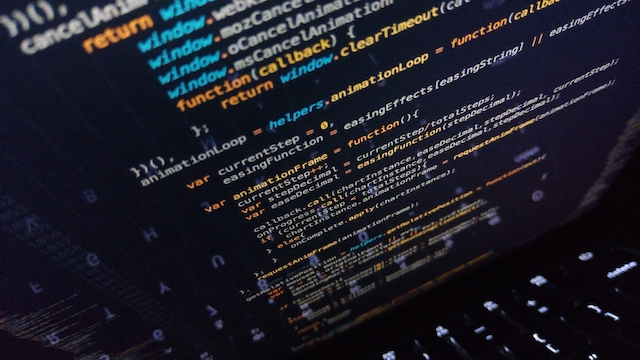
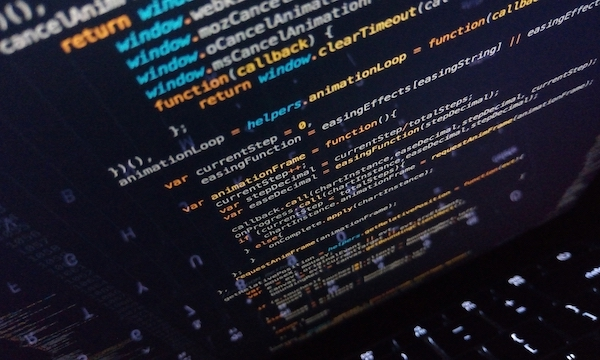
updated photo ratios

diff --git a/blog/neuroplasitcity.html b/blog/neuroplasitcity.html
@@ -26,7 +26,7 @@
         <div id="post-area">
           <div class="post">
             <h1>NEUROPLASTICITY AND THE GROWTH MINDSET</h1>
-            <img src="/images/neuroplasticity.jpg" alt="image of synapse" class="post-photo">
+            <img src="/images/neuroplasticity.jpeg" alt="image of synapse" class="post-photo">
             <p class="post-date-post">9 July 2021</p>
             <h2>Neuroplasicity</h2>
             <h3>Discuss how understanding the principles of neuroplasticity benefits people:</h3>
@@ -46,7 +46,7 @@
               <li><a href="https://www.verywellmind.com/what-is-brain-plasticity-2794886" target="__blank" class="link-hover">What is brain plasticity - VeryWellMind.com</a></li>
             </ul>
             <h2>The Growth Mindset</h2>
-            <img src="/images/growth-mindset.jpg" alt="two drawn heads showing a fixed and growth mindset" class="post-photo">
+            <img src="/images/growth-mindset.jpeg" alt="two drawn heads showing a fixed and growth mindset" class="post-photo">
             <h3>Discuss what it is and why it is relevant:</h3>
             <p>
               A growth mindset is knowing that your mind is not limited/static in terms of it’s capacity but rather through persistence in failure you can grow that capacity. It is extremely relevant, in the development world especially, because it is just simply impossible know and understand everything there is about everything. With a growth mindset, one might feel static in terms of their current knowledge but having that mindset would comfort them in the process of learning more and potentially failing along the way - knowing that time spent learning and time failing is sometimes a byproduct of learning.

diff --git a/index.html b/index.html
@@ -61,7 +61,7 @@
 
         <div class="post-card">
           <a href="/blog/neuroplasitcity.html">
-            <img src="/images/neuroplasticity.jpg" alt="image of synapse" class="post-photo">
+            <img src="/images/neuroplasticity.jpeg" alt="image of synapse" class="post-photo">
             <h2 class="post-title">NEUROPLASICITY AND THE GROWTH MINDSET</h2>
           </a>
           <p class="post-teaser">The brain is the most complex organ in our body and simply knowing about it and the Growth Mindset can make you a more effective learner and most importantly more successful. Come scatch the surface and then dive in deeper!</p>
@@ -88,7 +88,7 @@
 
         <div class="post-card">
           <a href="/blog/identity-values.html">
-            <img src="/images/do-something-great.jpg" alt="neon sign that says do something great" class="post-photo">
+            <img src="/images/do-something-great.jpeg" alt="neon sign that says do something great" class="post-photo">
             <h2 class="post-title">MY IDENTITY, VALUES & STRENGTHS</h2>
           </a>
           <p class="post-teaser">Another deep post, this time about my identity, values and strengths. It's interesting to gain insignt into how you work and I definitely encourage doing a bit of self-reflection if you haven't already!</p>

diff --git a/blog/emotional-intelligence.html b/blog/emotional-intelligence.html
@@ -36,7 +36,6 @@
             <p>I see EQ as the base of a pyramid - it is extremely important for you to have a strong base in order for your pyramid to become any significant height. In more common words: having strong EQ skills allows you to better exercise your IQ. You could have strong IQ skills and weak EQ skills and be able to easily work on something but not be able to listen to yourself or others - very clear problem for one's wellbeing and team productive levels/wellness. On the other hand you could have strong EQ skills and weak IQ skills which would mean that you can listen to yourself and other's very effectivly but might not have technical knowledge for example, but that would be easily overcome with the high EQ skills.</p>
           </div>
         </div>
-        <div id="spacer100px"></div>
       </div>
     </main>
 

diff --git a/blog/identity-values.html b/blog/identity-values.html
@@ -26,7 +26,7 @@
         <div id="post-area">
           <div class="post">
             <h1>MY IDENTITY, VALUES & STRENGTHS</h1>
-            <img src="/images/do-something-great.jpg" alt="neon sign that says do something great" class="post-photo">
+            <img src="/images/do-something-great.jpeg" alt="neon sign that says do something great" class="post-photo">
             <p class="post-date-post">2 July 2021</p>
             <p>I have actually already done a Myers Briggs personality test and my results really resonate with my daily struggles and things that I think are my strengths; also very interesting that people can generally be grouped into only 16 different types!
             <br><br>
